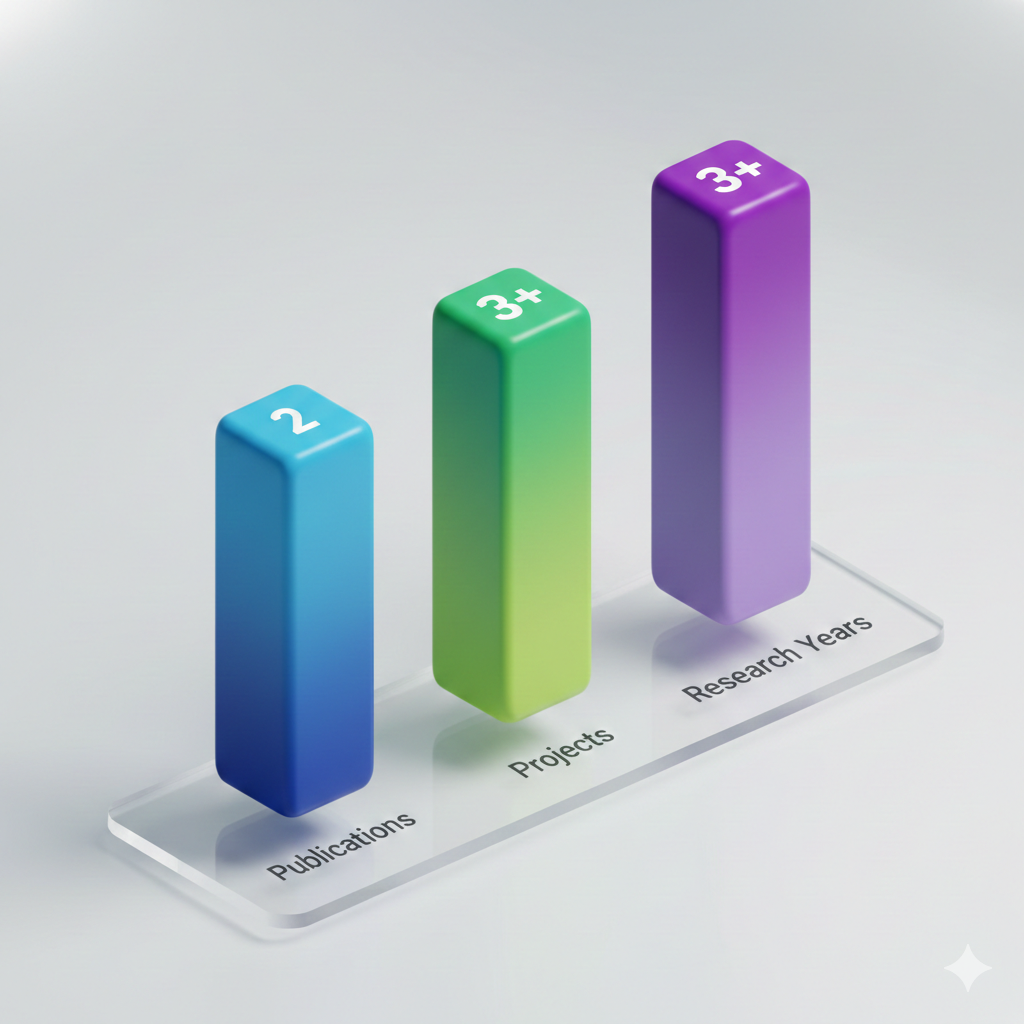
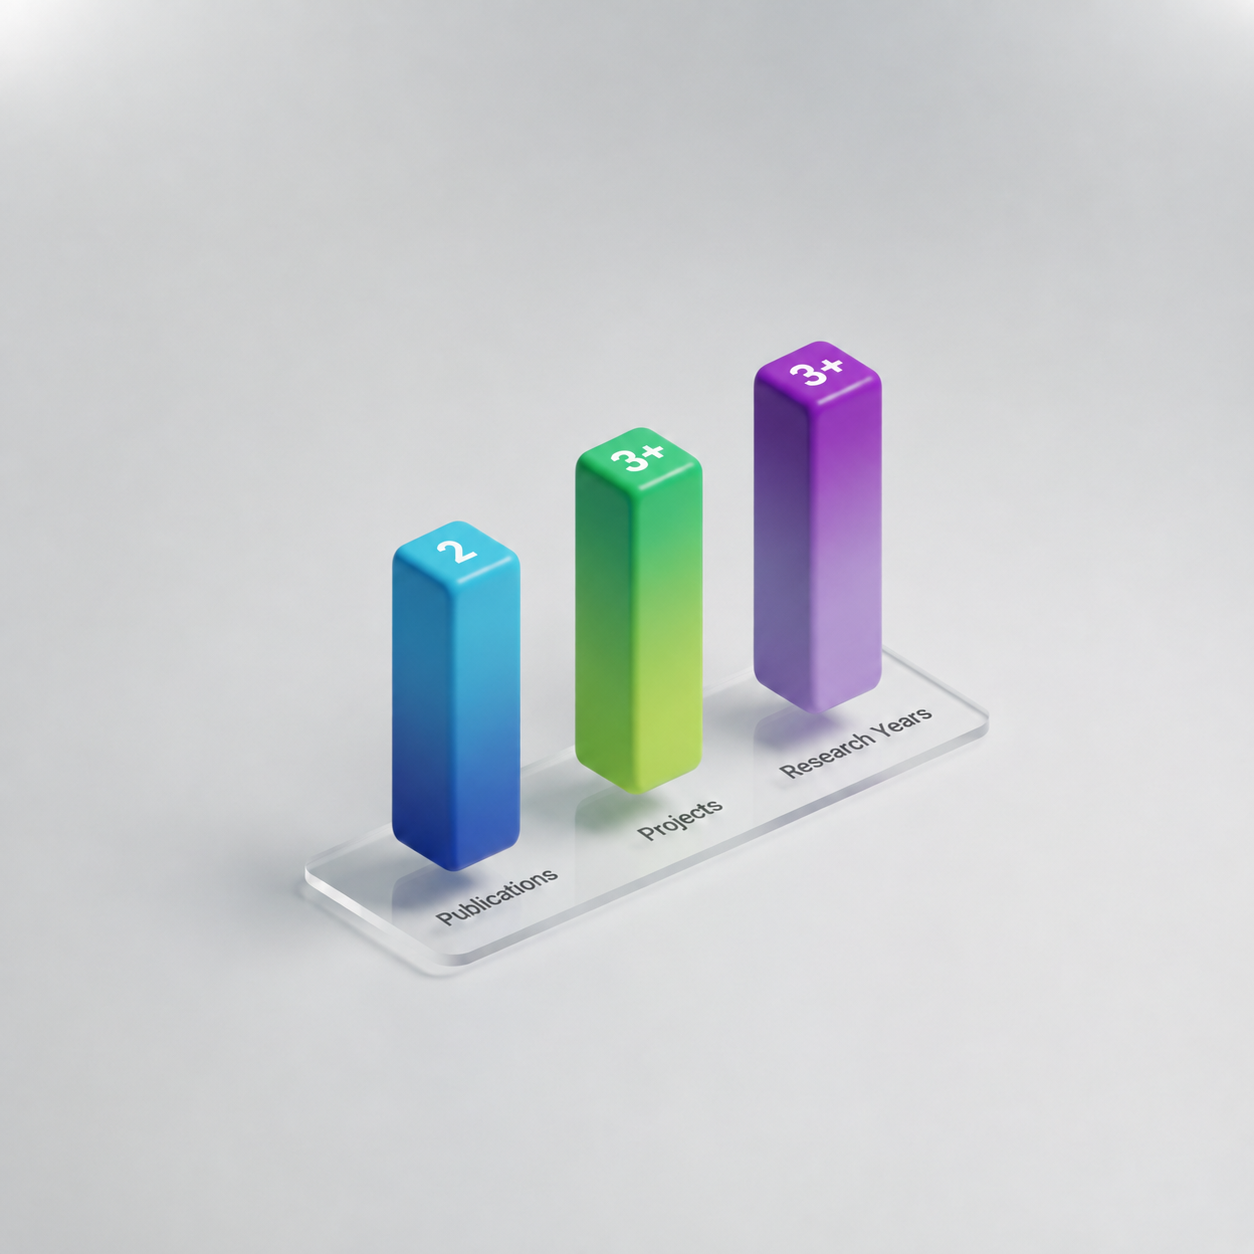
feat: reorganize Research section into carousel layout with IP category

diff --git a/src/components/sections/ResearchSection.tsx b/src/components/sections/ResearchSection.tsx
@@ -1,8 +1,9 @@
 import { motion } from "framer-motion";
 import { useInView } from "framer-motion";
 import { useRef } from "react";
-import { BookOpen, FileText, Award, ExternalLink } from "lucide-react";
+import { BookOpen, FileText, Award, ExternalLink, BadgeCheck, Copyright } from "lucide-react";
 import { ImagePlaceholder } from "@/components/ImagePlaceholder";
+import { SingleItemCarousel } from "@/components/research/SingleItemCarousel";
 
 const researchProjects = [
   {
@@ -12,6 +13,20 @@ const researchProjects = [
     year: "2023",
     url: "https://www.kompasiana.com/adityawahyusetiawan1135/6964a70334777c377a0bfdf2/inovasi-berbasis-internet-of-things-karya-mahasiswa-um-harumkan-nama-bangsa-di-tingkat-internasional?page=1&page_images=1",
   },
+  {
+    type: "Research Project",
+    title: "Digital Distance Protection Relay Trainer Using ESP32",
+    journal: "Universitas Negeri Malang",
+    year: "2025",
+    url: "https://drive.google.com/file/d/1KdBBDNYgm85YdDwG0hPR1bgvDPG0yXWg/view?usp=sharing",
+  },
+  {
+    type: "Research Project",
+    title: "Generator Edukit",
+    journal: "Universitas Negeri Malang",
+    year: "2025",
+    url: "https://drive.google.com/file/d/1D1GbUXM0omtyTSt9kDPpjhIBYswtRtU3/view?usp=sharing",
+  }
 ];
 
 const publications = [
@@ -28,6 +43,23 @@ const publications = [
     journal: "Jurnal Teknik elektro UNIBA",
     year: "2024",
     url: "https://jurnal.fte.uniba-bpn.ac.id/index.php/JTE/article/view/296" // Ganti dengan URL yang sesuai
+  }
+];
+
+const intellectualProperty = [
+  {
+    type: "Industrial Design",
+    title: "Industrial Design \u2014 Generator Edukit",
+    journal: "Universitas Negeri Malang",
+    year: "2025",
+    url: "https://drive.google.com/file/d/1D1GbUXM0omtyTSt9kDPpjhIBYswtRtU3/view?usp=sharing"
+  },
+  {
+    type: "Copyright",
+    title: "Copyright \u2014 DRAGONE ESP 32 Distance Relay Training System",
+    journal: "Technical Manual / Guide Book",
+    year: "2025",
+    url: "https://drive.google.com/file/d/1KdBBDNYgm85YdDwG0hPR1bgvDPG0yXWg/view?usp=sharing"
   }
 ];
 
@@ -50,6 +82,10 @@ export function ResearchSection() {
         return BookOpen;
       case "Conference":
         return Award;
+      case "Industrial Design":
+        return BadgeCheck;
+      case "Copyright":
+        return Copyright;
       default:
         return FileText;
     }
@@ -57,6 +93,47 @@ export function ResearchSection() {
 
   const handlePublicationClick = (url: string) => {
     window.open(url, "_blank", "noopener,noreferrer");
+  };
+
+  const renderTextCard = (item: any) => {
+    const TypeIcon = getTypeIcon(item.type);
+    return (
+      <div
+        onClick={() => item.url && handlePublicationClick(item.url)}
+        className={`group bg-card rounded-xl p-5 border border-border transition-all duration-300 ${item.url ? 'hover:border-accent/30 hover:shadow-lg cursor-pointer' : ''}`}
+      >
+        <div className="flex items-start gap-4">
+          <div className="flex-shrink-0 p-2 rounded-lg bg-accent/10">
+            <TypeIcon className="w-5 h-5 text-accent" />
+          </div>
+          <div className="flex-1 min-w-0">
+            <div className="flex items-center justify-between mb-2">
+              <div className="flex items-center gap-2">
+                <span className="text-xs font-medium text-muted-foreground">{item.type}</span>
+                <span className="text-xs text-muted-foreground">•</span>
+                <span className="text-xs text-muted-foreground">{item.year}</span>
+              </div>
+              {item.url && (
+                <a
+                  href={item.url}
+                  target="_blank"
+                  rel="noopener noreferrer"
+                  onClick={(e) => e.stopPropagation()}
+                  aria-label={`Open document for ${item.title}`}
+                  className="p-1.5 rounded-md hover:bg-accent/10 transition-colors"
+                >
+                  <ExternalLink className="w-4 h-4 text-muted-foreground hover:text-accent opacity-100" />
+                </a>
+              )}
+            </div>
+            <h4 className="text-base font-medium text-foreground group-hover:text-accent transition-colors line-clamp-2">
+              {item.title}
+            </h4>
+            <p className="text-sm text-muted-foreground mt-1">{item.journal}</p>
+          </div>
+        </div>
+      </div>
+    );
   };
 
   return (
@@ -69,7 +146,7 @@ export function ResearchSection() {
           className="text-center mb-16"
         >
           <h2 className="text-3xl md:text-4xl font-display font-bold text-foreground mb-4">
-            Research Projects & Publications
+            Research, Publications & Intellectual Property
           </h2>
           <p className="text-muted-foreground max-w-2xl mx-auto">
             Applied research spanning power systems, renewable energy, industrial automation, and IoT-based monitoring.
@@ -83,55 +160,13 @@ export function ResearchSection() {
             initial={{ opacity: 0, x: -50 }}
             animate={isInView ? { opacity: 1, x: 0 } : {}}
             transition={{ duration: 0.8, delay: 0.2 }}
-            className="space-y-6"
+            className="space-y-3"
           >
-            <h3 className="text-xl font-semibold text-foreground">Research Projects</h3>
-            <div className="space-y-4">
-              {researchProjects.map((pub, index) => {
-                const TypeIcon = getTypeIcon(pub.type);
-                return (
-                  <motion.div
-                    key={pub.title}
-                    initial={{ opacity: 0, y: 20 }}
-                    animate={isInView ? { opacity: 1, y: 0 } : {}}
-                    transition={{ duration: 0.5, delay: 0.3 + index * 0.1 }}
-                    whileHover={{ x: 5 }}
-                    onClick={() => handlePublicationClick(pub.url)}
-                    className="group bg-card rounded-xl p-5 border border-border hover:border-accent/30 hover:shadow-lg transition-all duration-300 cursor-pointer"
-                  >
-                    <div className="flex items-start gap-4">
-                      <div className="flex-shrink-0 p-2 rounded-lg bg-accent/10">
-                        <TypeIcon className="w-5 h-5 text-accent" />
-                      </div>
-                      <div className="flex-1 min-w-0">
-                        <div className="flex items-center gap-2 mb-2">
-                          <span className="text-xs font-medium text-muted-foreground">{pub.type}</span>
-                          <span className="text-xs text-muted-foreground">•</span>
-                          <span className="text-xs text-muted-foreground">{pub.year}</span>
-                        </div>
-                        <h4 className="text-base font-medium text-foreground group-hover:text-accent transition-colors line-clamp-2">
-                          {pub.title}
-                        </h4>
-                        <p className="text-sm text-muted-foreground mt-1">{pub.journal}</p>
-                      </div>
-                      <ExternalLink className="w-4 h-4 text-muted-foreground opacity-0 group-hover:opacity-100 transition-opacity flex-shrink-0" />
-                    </div>
-                  </motion.div>
-                );
-              })}
-            </div>
+            <SingleItemCarousel title="Research Projects" items={researchProjects} renderItem={renderTextCard} ariaLabel="research project" />
 
-            <h3 className="text-xl font-semibold text-foreground pt-2">Publications</h3>
-            <div className="space-y-4">
-              {publications.map((pub, index) => {
-                const TypeIcon = getTypeIcon(pub.type);
-                return (
-                  <motion.div key={pub.title} initial={{ opacity: 0, y: 20 }} animate={isInView ? { opacity: 1, y: 0 } : {}} transition={{ duration: 0.5, delay: 0.4 + index * 0.1 }} whileHover={{ x: 5 }} onClick={() => handlePublicationClick(pub.url)} className="group bg-card rounded-xl p-5 border border-border hover:border-accent/30 hover:shadow-lg transition-all duration-300 cursor-pointer">
-                    <div className="flex items-start gap-4"><div className="flex-shrink-0 p-2 rounded-lg bg-accent/10"><TypeIcon className="w-5 h-5 text-accent" /></div><div className="flex-1 min-w-0"><div className="flex items-center gap-2 mb-2"><span className="text-xs font-medium text-muted-foreground">{pub.type}</span><span className="text-xs text-muted-foreground">•</span><span className="text-xs text-muted-foreground">{pub.year}</span></div><h4 className="text-base font-medium text-foreground group-hover:text-accent transition-colors line-clamp-2">{pub.title}</h4><p className="text-sm text-muted-foreground mt-1">{pub.journal}</p></div><ExternalLink className="w-4 h-4 text-muted-foreground opacity-0 group-hover:opacity-100 transition-opacity flex-shrink-0" /></div>
-                  </motion.div>
-                );
-              })}
-            </div>
+            <SingleItemCarousel title="Publications" items={publications} renderItem={renderTextCard} ariaLabel="publication" />
+
+            <SingleItemCarousel title="Intellectual Property" items={intellectualProperty} renderItem={renderTextCard} ariaLabel="intellectual property" />
 
             {/* Research Areas */}
             <motion.div
@@ -183,7 +218,7 @@ export function ResearchSection() {
                     <p className="text-xs text-muted-foreground">Publications</p>
                   </div>
                   <div>
-                    <p className="text-2xl font-bold text-foreground">1</p>
+                    <p className="text-2xl font-bold text-foreground">3</p>
                     <p className="text-xs text-muted-foreground">Research Project</p>
                   </div>
                   <div>
@@ -199,3 +234,4 @@ export function ResearchSection() {
     </section>
   );
 }
+

diff --git a/src/components/research/SingleItemCarousel.tsx b/src/components/research/SingleItemCarousel.tsx
@@ -1,0 +1,71 @@
+import { useState } from "react";
+import { motion, AnimatePresence } from "framer-motion";
+import { ChevronLeft, ChevronRight } from "lucide-react";
+import { Button } from "@/components/ui/button";
+
+interface SingleItemCarouselProps<T> {
+  items: T[];
+  renderItem: (item: T) => React.ReactNode;
+  ariaLabel: string;
+  title: string;
+}
+
+export function SingleItemCarousel<T>({ items, renderItem, ariaLabel, title }: SingleItemCarouselProps<T>) {
+  const [currentIndex, setCurrentIndex] = useState(0);
+
+  const prev = () => setCurrentIndex((i) => Math.max(0, i - 1));
+  const next = () => setCurrentIndex((i) => Math.min(items.length - 1, i + 1));
+
+  if (!items?.length) return null;
+
+  return (
+    <div className="space-y-0">
+      <div className="flex items-center justify-between gap-4">
+        <h3 className="text-xl font-semibold text-foreground">{title}</h3>
+        <div className="flex items-center gap-3">
+          {items.length > 1 && (
+            <span className="text-xs text-muted-foreground tabular-nums font-medium">
+              {currentIndex + 1} / {items.length}
+            </span>
+          )}
+          <div className="flex gap-2">
+            <Button
+              variant="outline"
+              size="icon"
+              className="w-8 h-8 rounded-full border-border hover:bg-accent/10 hover:text-accent hover:border-accent/30 transition-all"
+              onClick={prev}
+              disabled={currentIndex === 0}
+              aria-label={`Previous ${ariaLabel}`}
+            >
+              <ChevronLeft className="w-4 h-4" />
+            </Button>
+            <Button
+              variant="outline"
+              size="icon"
+              className="w-8 h-8 rounded-full border-border hover:bg-accent/10 hover:text-accent hover:border-accent/30 transition-all"
+              onClick={next}
+              disabled={currentIndex === items.length - 1}
+              aria-label={`Next ${ariaLabel}`}
+            >
+              <ChevronRight className="w-4 h-4" />
+            </Button>
+          </div>
+        </div>
+      </div>
+      
+      <div className="overflow-hidden">
+        <AnimatePresence mode="wait">
+          <motion.div
+            key={currentIndex}
+            initial={{ opacity: 0, x: 20 }}
+            animate={{ opacity: 1, x: 0 }}
+            exit={{ opacity: 0, x: -20 }}
+            transition={{ duration: 0.3 }}
+          >
+            {renderItem(items[currentIndex])}
+          </motion.div>
+        </AnimatePresence>
+      </div>
+    </div>
+  );
+}

diff --git a/src/components/sections/AchievementsSection.tsx b/src/components/sections/AchievementsSection.tsx
@@ -7,17 +7,6 @@ import { ImagePlaceholder } from "@/components/ImagePlaceholder";
 
 const achievements = [
   {
-    id: 1,
-    title: "Industrial Design — Generator Edukit",
-    year: "2025",
-    description:
-      "Registered industrial design for modular educational electrical generator training equipment.",
-    icon: Trophy,
-    color: "text-yellow-500",
-    bgColor: "bg-yellow-500/10",
-    imageLabel: "generator-edukit-patent", // Nama file: generator-edukit-patent.png
-  },
-  {
     id: 2,
     title: "National Seminar Speaker: Community Service SEPMAS",
     year: "2024",
@@ -49,17 +38,6 @@ const achievements = [
     color: "text-gray-400",
     bgColor: "bg-gray-500/10",
     imageLabel: "best-it-award", // Nama file: best-it-award.png
-  },
-  {
-    id: 5,
-    title: "Copyright: ESP32 Distance Relay Training System Manual Book",
-    year: "2025",
-    description:
-      "Copyrighted technical manual supporting power system protection training and laboratory instruction.",
-    icon: FileText, // Changed from Sparkles
-    color: "text-green-500",
-    bgColor: "bg-green-500/10",
-    imageLabel: "esp32-manual-copyright", // Nama file: esp32-manual-copyright.png
   },
   {
     id: 6,
